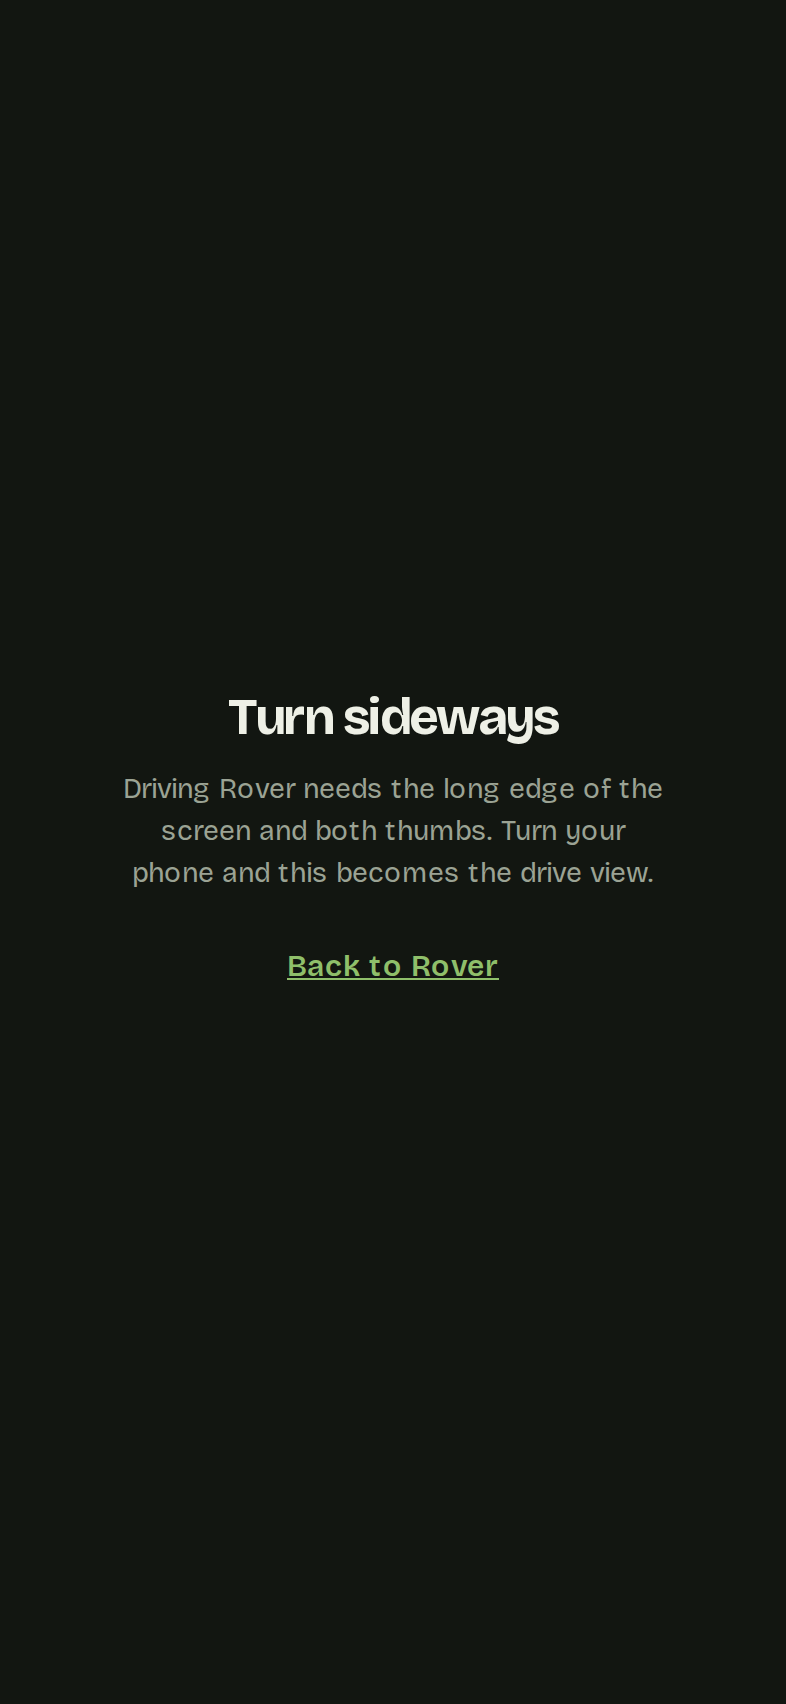
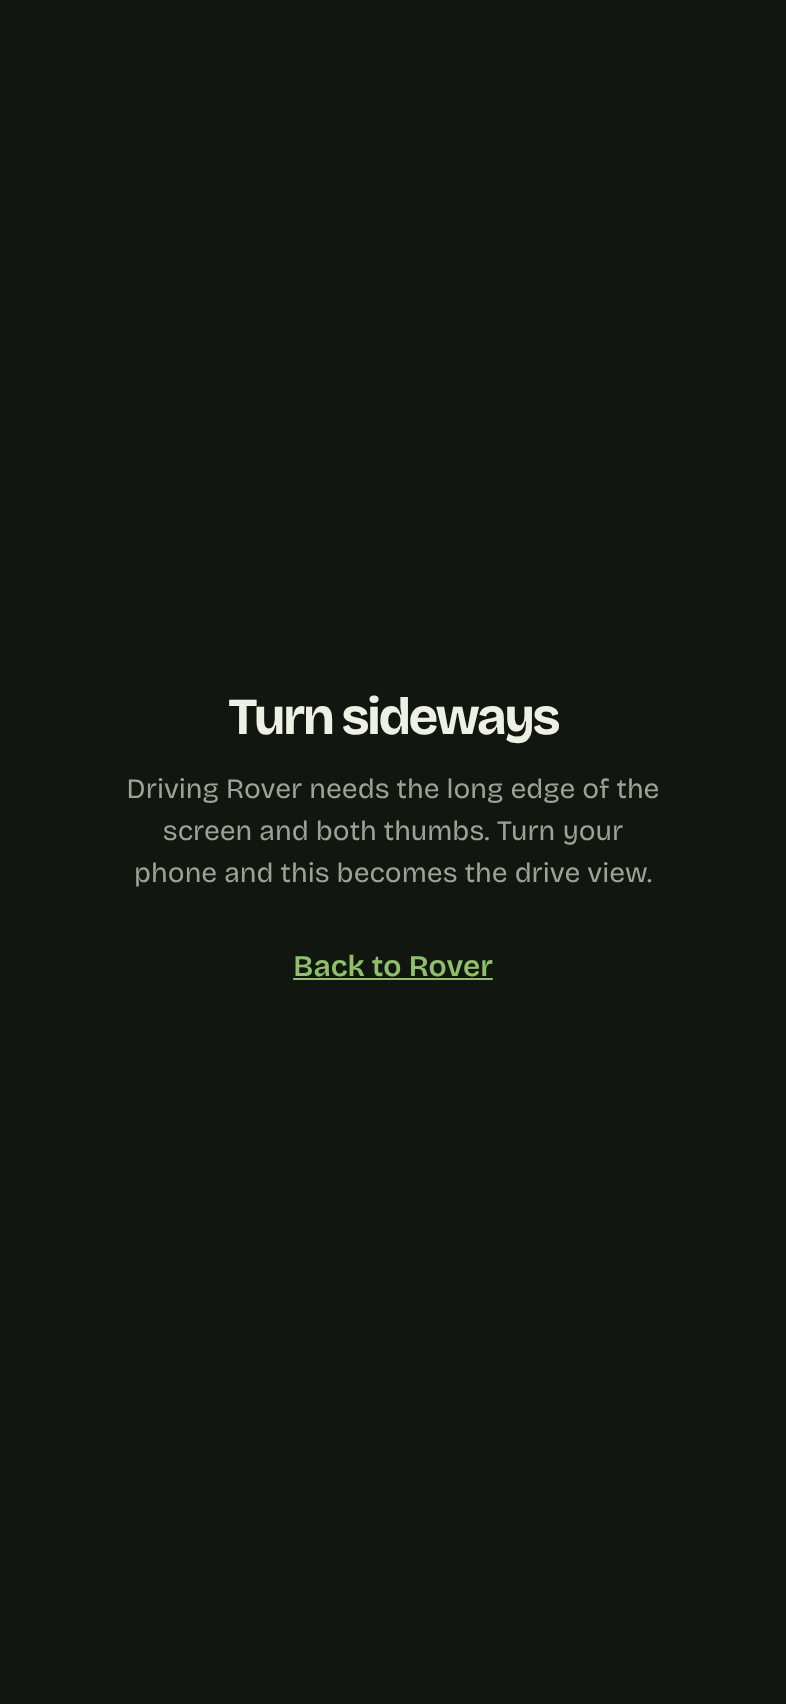
Docs: changelog for the polish pass, screenshots re-captured
The faint text colour changed on every page, so the whole current-ui set
is regenerated in both themes rather than only the pages whose layout
moved. The Settings capture says "d3b6e03 · edited" because the fixture
server started before these commits were made; that is what it saw.

Claude-Session: https://claude.ai/code/session_01KgmQrVuaAGmKyaioEr7d7t

Changed region(s): [[0.1527, 0.4043, 0.8244, 0.5288], [0.5191, 0.5599, 0.6412, 0.591], [0.3664, 0.5599, 0.4885, 0.591]]

diff --git a/CHANGELOG.md b/CHANGELOG.md
@@ -10,6 +10,30 @@ Mostly the story of getting the one machine that serves this app running again,
 and making it stay that way. `docs/history/2026-09-30-application-control-blocks-python.md`
 has the day in full.
 
+### A polish pass from a review of every page
+
+- **Robot tab margins.** The drive card and "Show me the controls again"
+  ran to the screen edges, and the link was grey and underlined. Both now
+  have the page's margin, and the link is in the app's green link style.
+- **Small controls are easier to hit.** The tabs, switches, colour swatches,
+  segmented buttons and the walk button were drawn 32–36px tall, under the
+  44px a fingertip needs. Each now has a larger invisible touch area, so
+  nothing on screen moved.
+- **The faint text is readable.** The small grey labels ("Checked Fi", the
+  camera hint, the build line) measured 3.1:1 in dark and 4.2:1 in light,
+  both under the 4.5:1 floor. They are now 5.1:1 and 4.9:1, still quieter
+  than the secondary text. A test holds that.
+- **Rest by hour** gets the "View readings" table the other two charts
+  already had, and a rule now separates the two Rest charts. The tables'
+  column headings sit over their numbers.
+- **A walk that has dropped out of Fi's feed** shows a page saying so, with
+  the way back. It used to show a bare JSON error.
+- **The build line on Settings** is in the PC's own time. It used to show
+  whatever timezone the commit carried, UTC for a merge made on GitHub.
+- The login page no longer asks for a photo that never existed.
+- A drive-mode style no longer flattens the pan/tilt pad of a camera that
+  can move. None can yet, which is why it was never seen.
+
 ### The Camera tab, after a week and a half of use
 
 - **Full screen.** A button next to the shutter fills the screen with the
